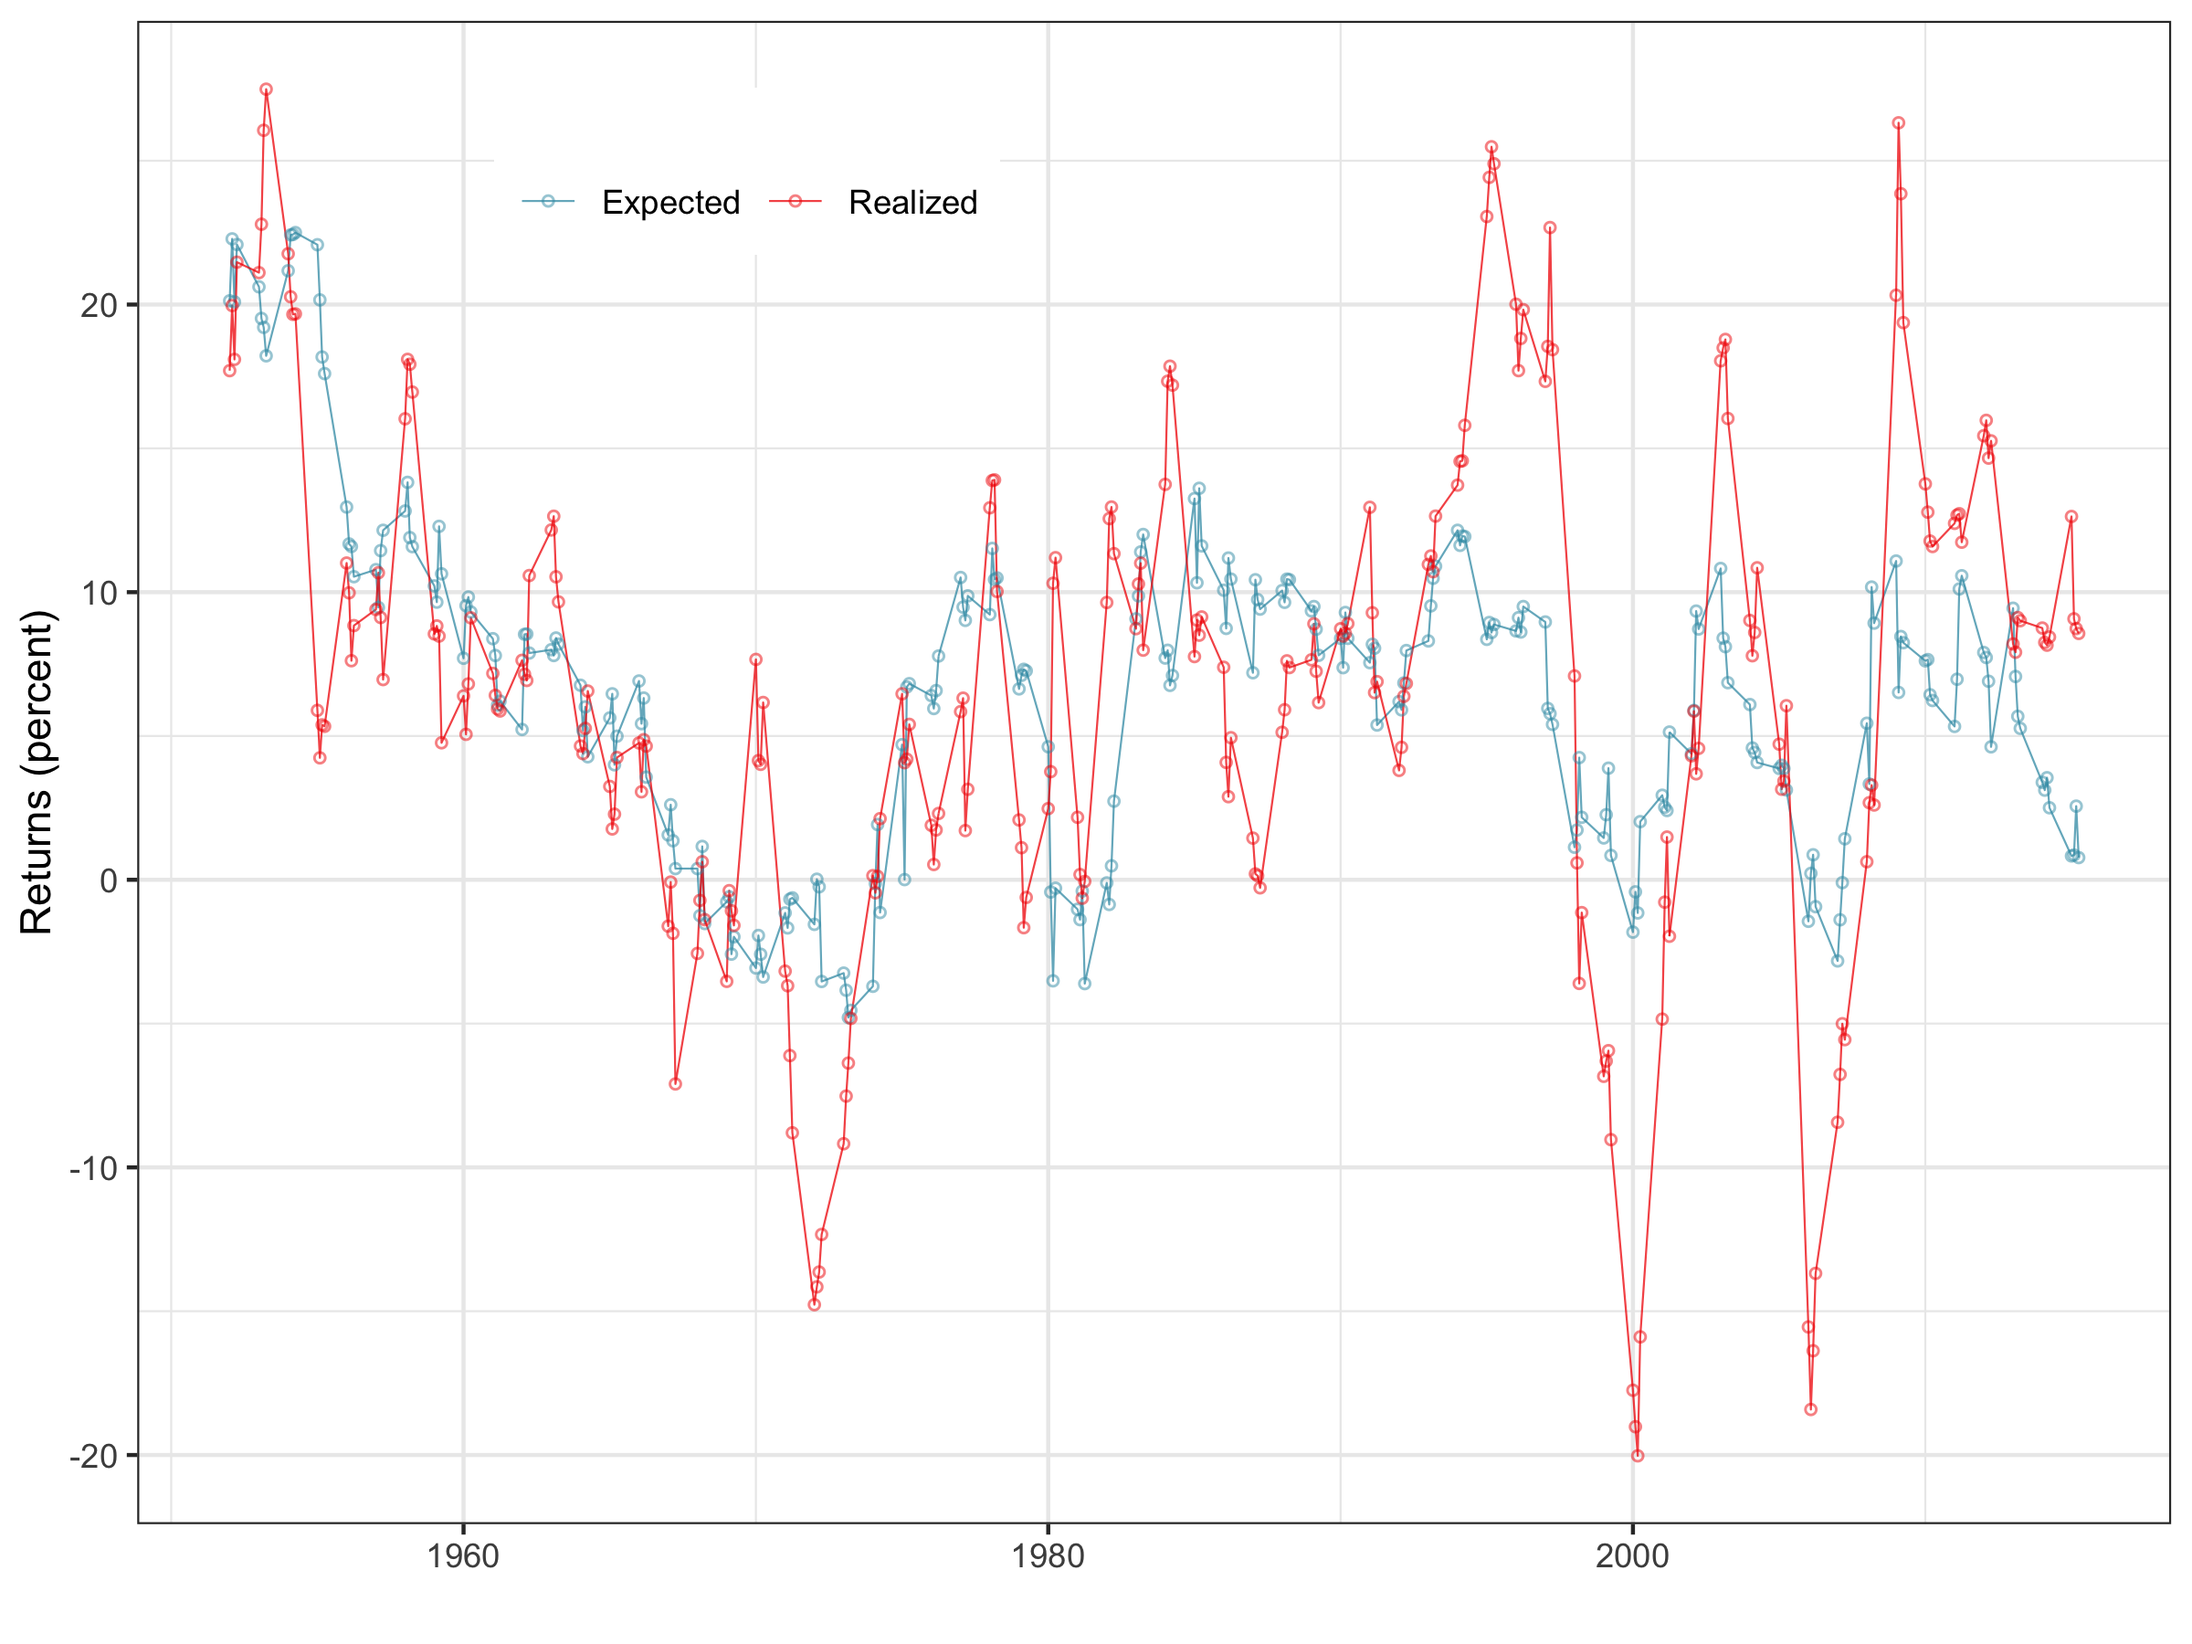
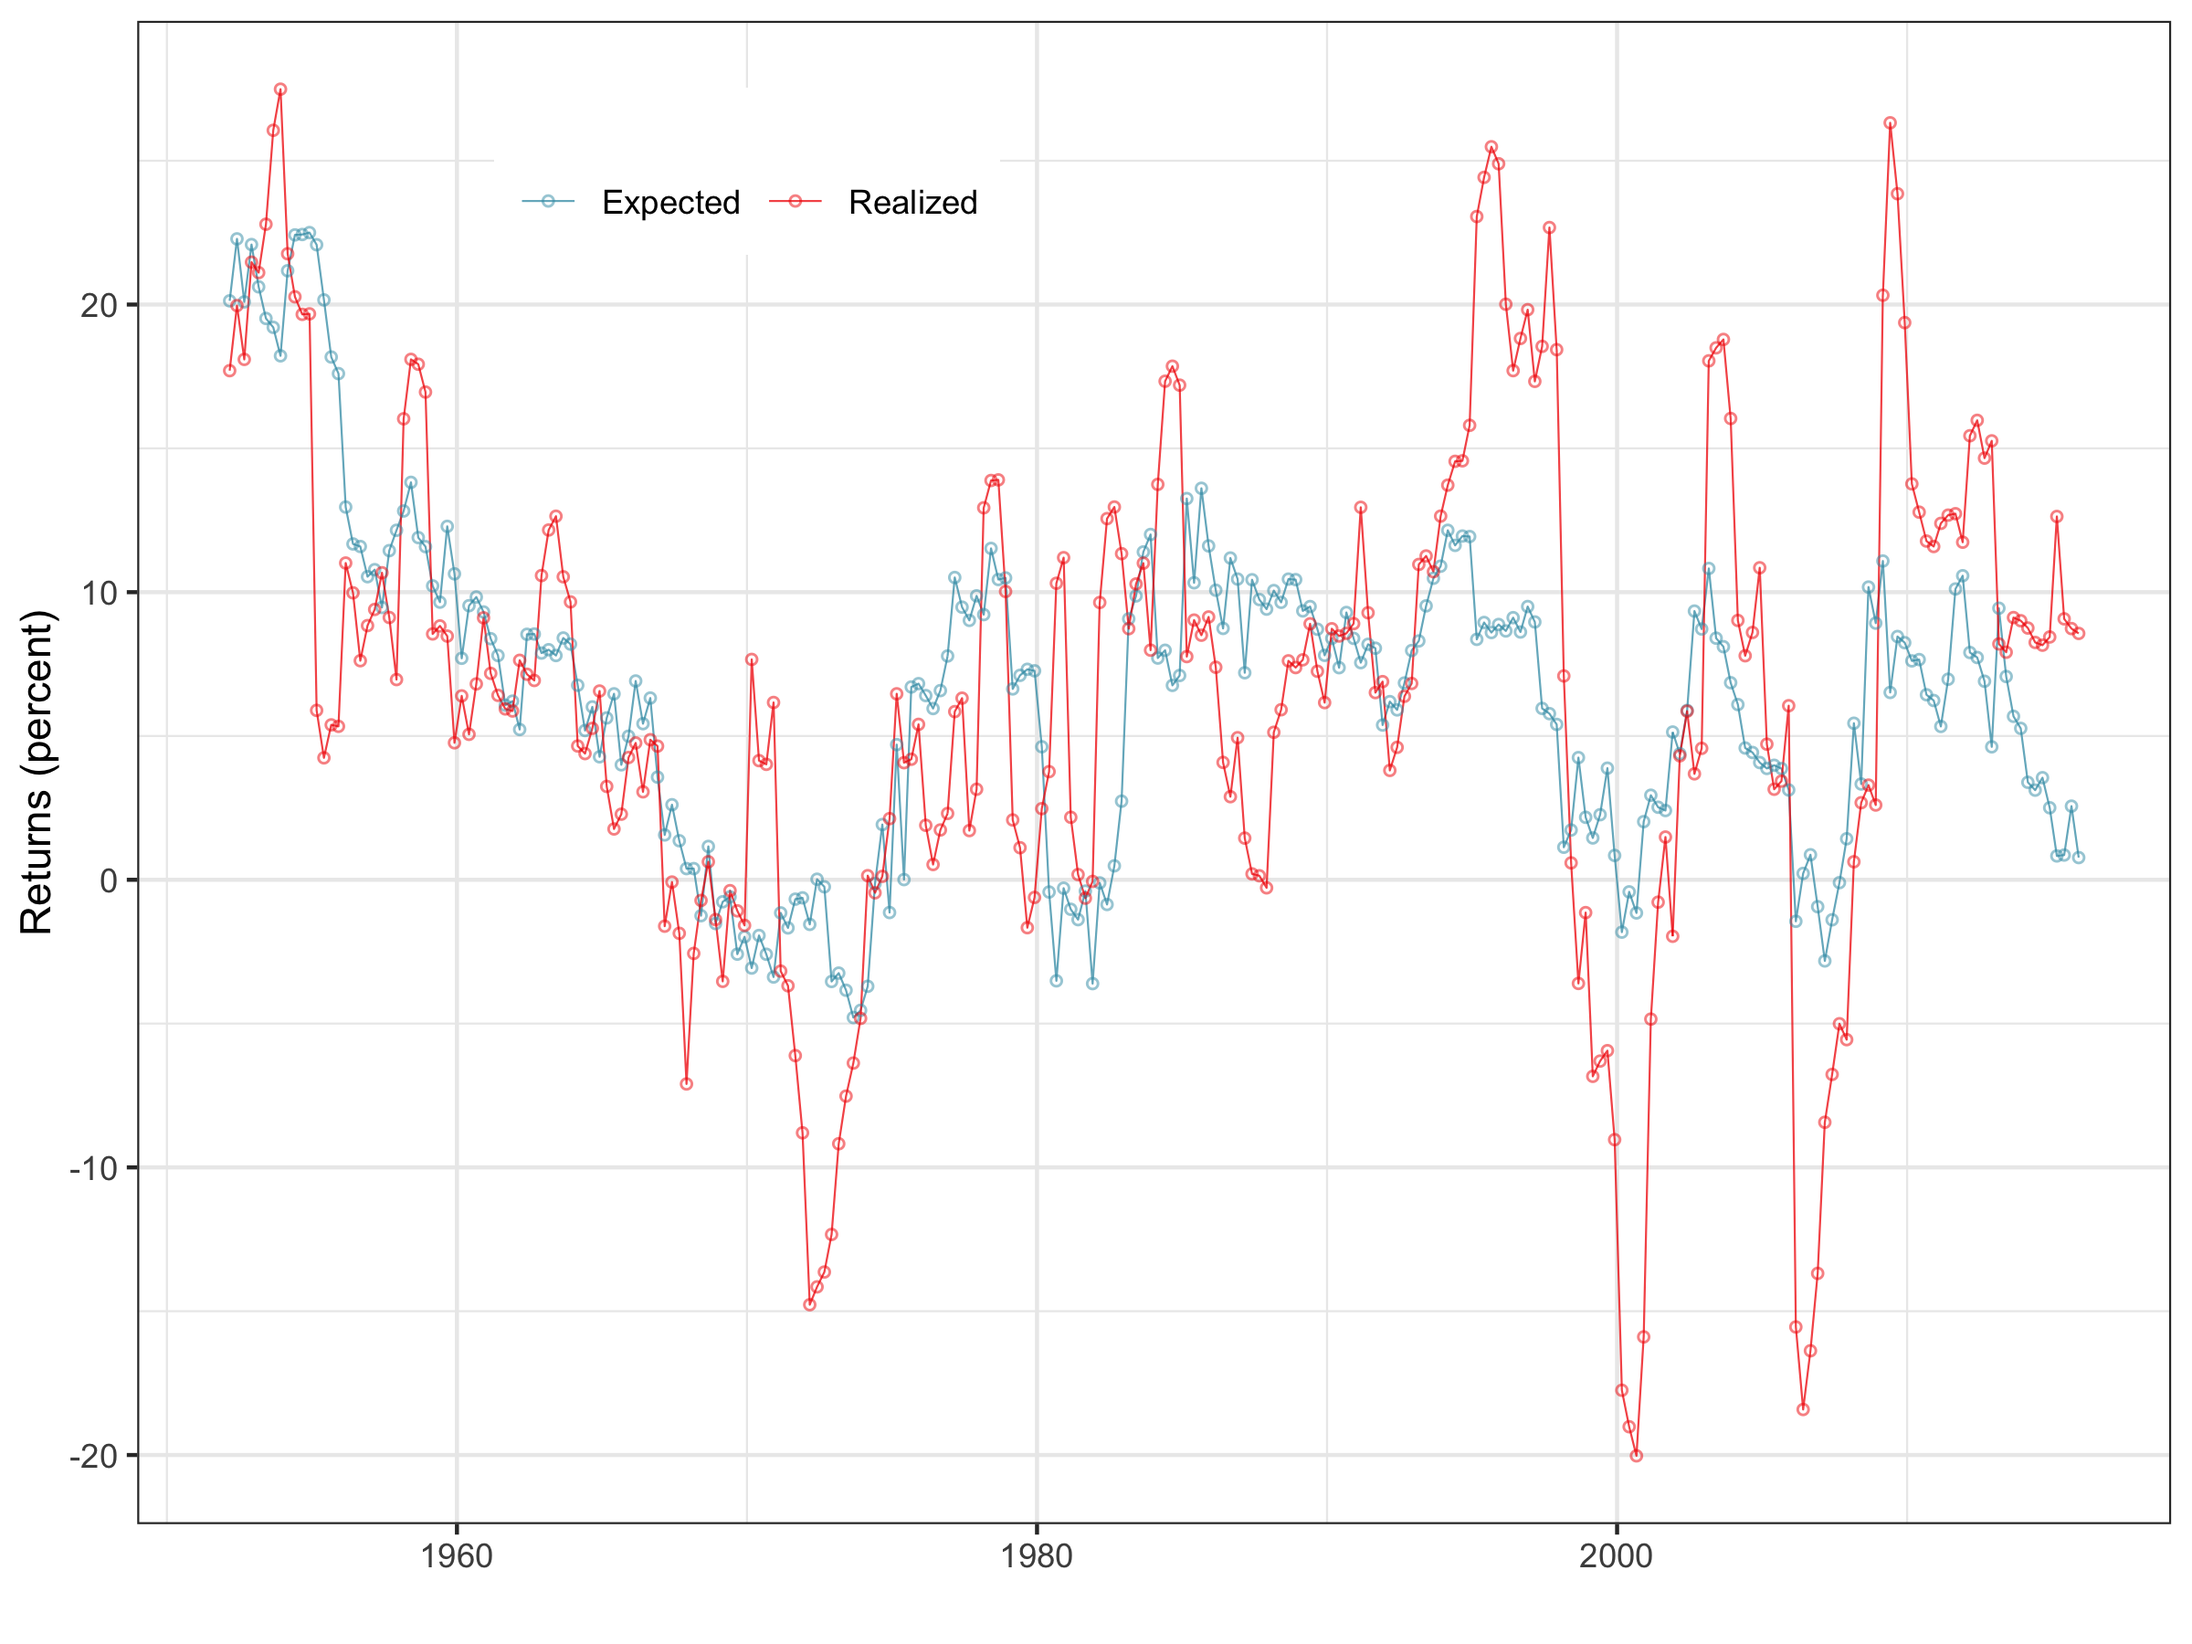
Dates for plot were not treated as quarters only update picture not the data

diff --git a/docs/index.html b/docs/index.html
@@ -12,10 +12,6 @@
 </head>
 
 
-
-
-
-
 <body>
 <div id="wrapper">
 <div id="header">
@@ -25,16 +21,7 @@
 <div class="post">
 </div>
 
-
-
-
-<!-- <H3>
-Erik Loualiche
-</H3> -->
-<!-- <IMG SRC="../output/predict.png"> -->
-    <img src = "https://raw.githubusercontent.com/eloualiche/RiskPremium/master/output/predict.png" width = "705" height = "528" />
-         <!-- alt = "Picture of a happy monkey" /> -->
-
+<img src = "https://raw.githubusercontent.com/eloualiche/RiskPremium/master/output/predict.png" width = "705" height = "528" />
 
 <PRE> 
 
@@ -50,11 +37,9 @@ UPDATED DATA FOR
 <A HREF="https://github.com/eloualiche/RiskPremium/releases">Download older versions of the data</A>
 
 
-<HR> </HR>
+<HR> </HR> 
 </PRE>
 
-</div>
-</body>
-</html>
+</div> </body> </html>
 
 

diff --git a/readme.md b/readme.md
@@ -16,7 +16,7 @@ We use the dividend-price ratio, cay and the three-month T-bill to predict futur
 
 1. Measuring Dividend Price ratio uses CRSP Monthly Index files available on [WRDS](https://wrds-web.wharton.upenn.edu/wrds/ds/crsp/stock_a/stkmktix.cfm)
    - `msi.sas7bdat` downloaded from `/wrds/crsp/sasdata/a_stock/msi.sas7bdat`
-   - See the calculations to account for reinvested dividends in this [note](./doc/dividendpriceratio.pdf) on how 
+   - See the calculations to account for reinvested dividends in this [note](./docs/dividendpriceratio.pdf) on how 
 2. Measuring the risk-free rate from H15 release available on [FRED](https://fred.stlouisfed.org/series/TB3MS
 )
 3. Measuring cay from Lettau's [website](http://faculty.haas.berkeley.edu/lettau/data_cay.html). *Last downloaded on May 29 2019*
